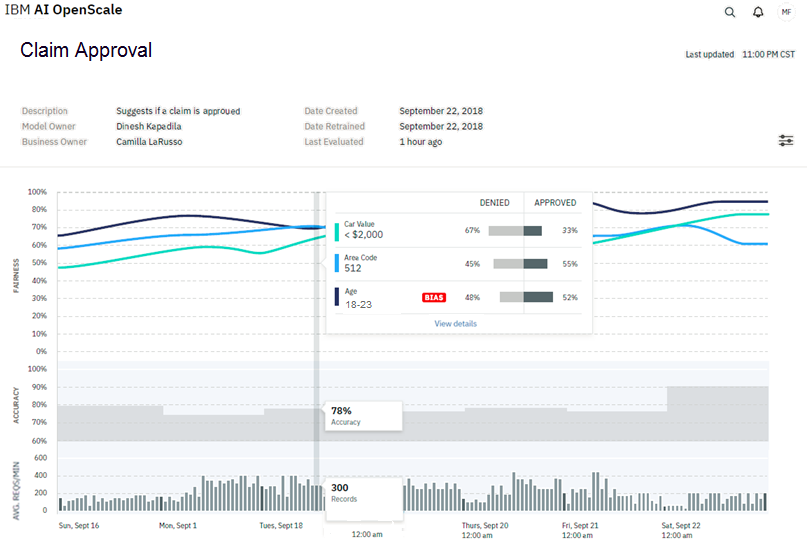
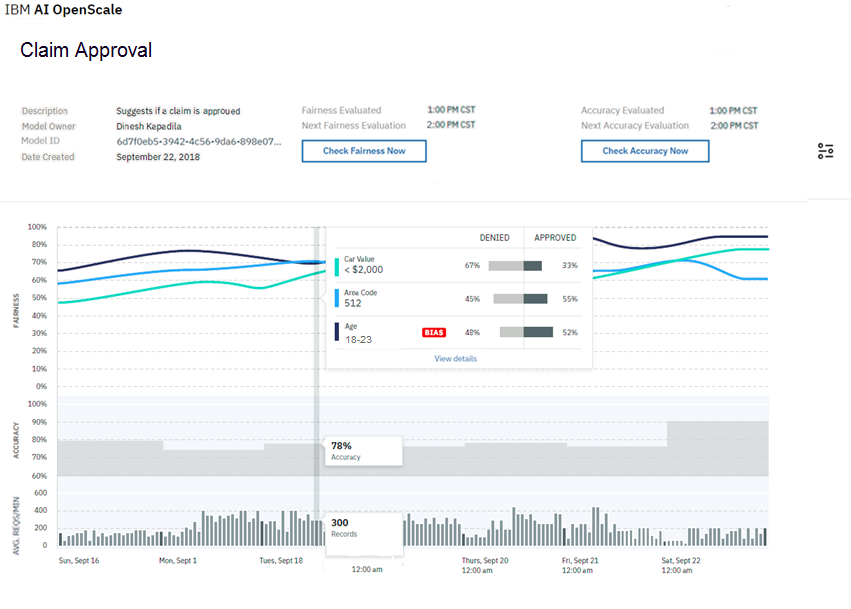
Updates for #4452

diff --git a/insight-timechart.md b/insight-timechart.md
@@ -1,8 +1,8 @@
 ---
 
 copyright:
-  years: 2018
-lastupdated: "2018-12-14"
+  years: 2018, 2019
+lastupdated: "2019-01-28"
 
 ---
 
@@ -15,20 +15,24 @@ lastupdated: "2018-12-14"
 {:codeblock: .codeblock}
 {:screen: .screen}
 
-# Monitoring fairness, accuracy, and explainability
-{: #insight-deploy-detail}
-
-Select a deployment from the dashboard to see monitoring data for that deployment.
-{: shortdesc}
-
-## Monitoring Fairness, Average Requests per Minute, and Accuracy
+# Monitoring Fairness, Average Requests per Minute, and Accuracy
 {: #insight-time-chart}
 
 Monitoring data for individual deployments are displayed in a time series chart. The chart tracks Fairness, Average Requests per Minute, and Accuracy over the last seven days.
+{: shortdesc}
 
-  ![Time series chart](images/insight-time-chart.png)
+## Viewing data for a deployment
+{: #view}
 
-Move the marker across the chart to see statistics for an individual hour. In this example, the time selected is 1:00 PM CST on September 18, which reveals the following statistics:
+Select a deployment from the dashboard to see monitoring data for that deployment. The top of the monitoring data chart displays information about the deployed model, including when the model was last evaluated for Fairness and Accuracy, and when it will be evaluated next.
+
+![Time series chart](images/insight-time-chart.png)
+
+Because the algorithm checks are only run every hour, there are also buttons provided to allow you to check Fairness and Accuracy on-demand. If you have not provided enough payload records (Fairness) or feedback records (Accuracy), you will see the following message, for example:
+
+![Accuracy button](images/accuracy-button.png)
+
+Next, move the marker across the chart to see statistics for an individual hour. In this example, the time selected is 1:00 PM CST on September 18, which reveals the following statistics:
 
   ![Time series chart detail](images/insight-time-detail.png)
 
